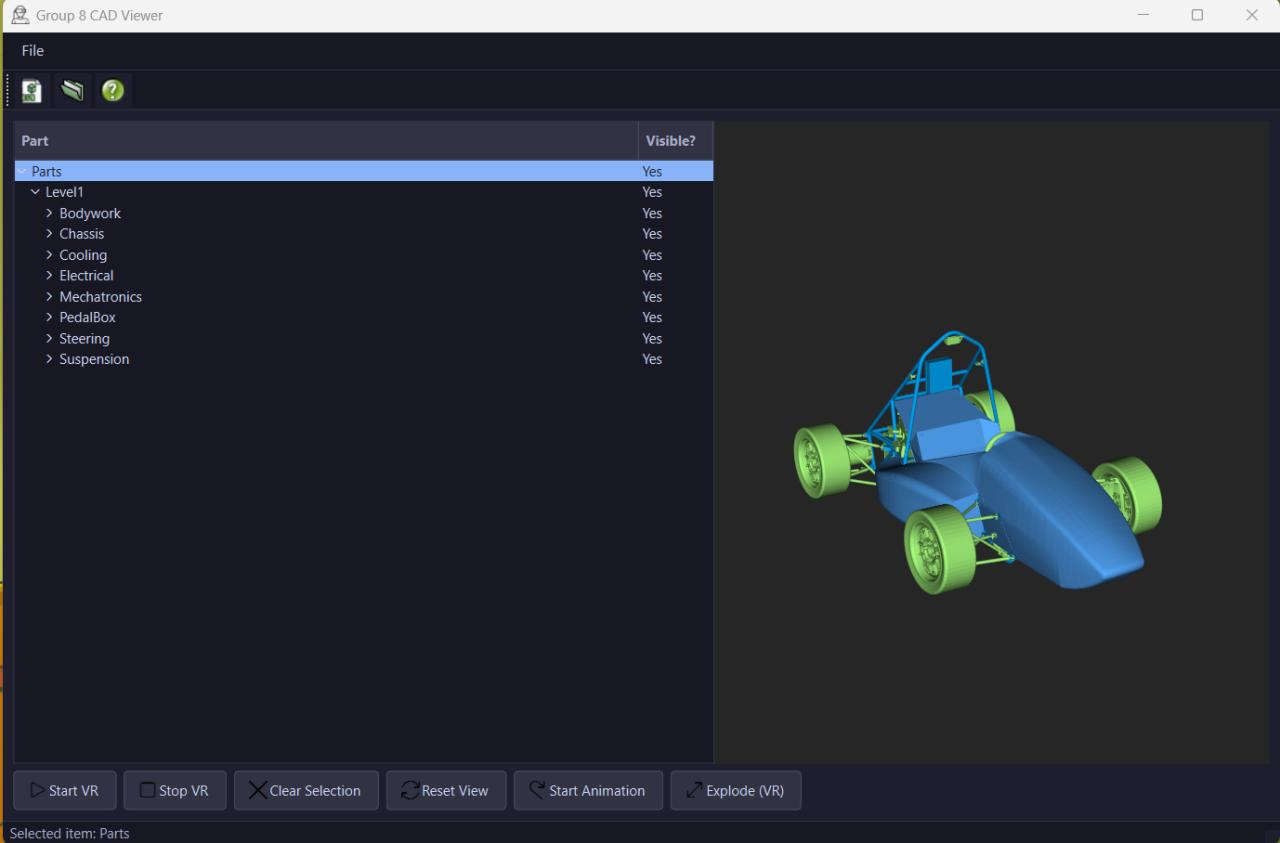
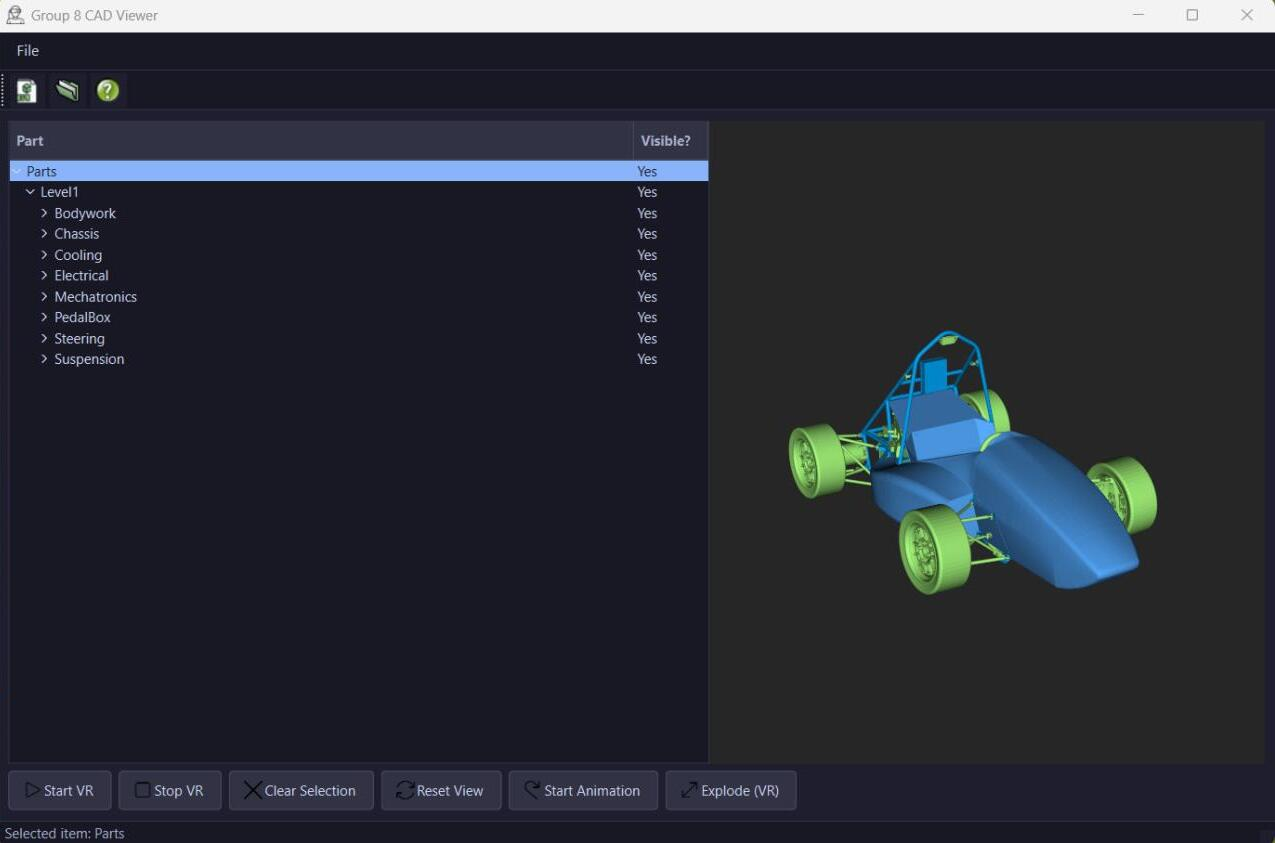
Add embedded line-following robot case study

diff --git a/projects/embedded-line-following-robot.html b/projects/embedded-line-following-robot.html
@@ -1,0 +1,131 @@
+<!DOCTYPE html>
+<html lang="en">
+<head>
+    <meta charset="UTF-8" />
+    <meta name="viewport" content="width=device-width, initial-scale=1.0" />
+
+    <title>Embedded Line-Following Robot | Bruce Jennings</title>
+
+    <meta name="description"
+          content="Case study for an Arduino-based embedded line-following robot using infrared sensors, PID control, Node-RED monitoring, and basic OpenCV experimentation." />
+
+    <link rel="stylesheet" href="../style.css?v=4" />
+</head>
+
+<body>
+    <header class="site-header">
+        <nav class="nav">
+            <a href="../index.html#home" class="logo">Bruce Jennings</a>
+
+            <div class="nav-links">
+                <a href="../index.html#projects">Projects</a>
+                <a href="../index.html#about">About</a>
+                <a href="../index.html#cv">CV</a>
+                <a href="../index.html#contact">Contact</a>
+            </div>
+        </nav>
+    </header>
+
+    <main>
+        <section class="project-hero">
+            <a href="../index.html#projects" class="back-link">← Back to projects</a>
+
+            <p class="eyebrow">Arduino · PID Control · IR Sensors · Node-RED · OpenCV</p>
+
+            <h1>Embedded Line-Following Robot</h1>
+
+            <p class="hero-text">
+                An Arduino-based embedded robotics project developed for autonomous line following. The system combined
+                infrared sensor feedback, PID motor control, hardware integration, and a Node-RED dashboard for real-time
+                monitoring and interaction.
+            </p>
+        </section>
+
+        <section class="section project-showcase">
+            <img src="../assets/images/projects/line-following-robot/node-red-interface.jpg"
+                 alt="Embedded line-following robot with Node-RED dashboard interface"
+                 class="case-study-image large" />
+
+            <div class="image-grid">
+                <img src="../assets/images/projects/line-following-robot/car-image.jpg"
+                     alt="Line-following robot hardware platform"
+                     class="case-study-image" />
+
+                <img src="../assets/images/projects/line-following-robot/pid-system.jpg"
+                     alt="PID control circuit and robot electronics"
+                     class="case-study-image" />
+            </div>
+        </section>
+
+        <section class="section case-study-layout">
+            <article class="case-study-main">
+                <h2>Overview</h2>
+                <p>
+                    This project involved developing an embedded system for autonomous line following using Arduino-based
+                    hardware. The robot used infrared sensors to detect the line, PID control to stabilise movement, and
+                    motor control logic to follow the path more smoothly than a simple on/off steering approach.
+                </p>
+
+                <h2>System Development</h2>
+                <p>
+                    The project was developed in stages. The first stage focused on basic autonomous movement and PID tuning.
+                    The second stage added a Node-RED dashboard for real-time monitoring and interaction. A later extension
+                    explored basic OpenCV techniques for object detection and visual response.
+                </p>
+
+                <h2>Key Features</h2>
+                <ul class="case-study-list">
+                    <li>Infrared sensor-based line detection.</li>
+                    <li>PID motor control for improved path stability.</li>
+                    <li>Arduino-based embedded control logic.</li>
+                    <li>Real-time monitoring and interaction through a Node-RED dashboard.</li>
+                    <li>Hardware integration, testing, and debugging.</li>
+                    <li>Basic OpenCV object detection experimentation.</li>
+                </ul>
+
+                <h2>My Contribution</h2>
+                <p>
+                    I implemented and tuned the PID control behaviour, worked on the Node-RED interface, integrated and tested
+                    hardware components, and contributed to debugging and validation of the complete robot system.
+                </p>
+
+                <h2>What I Learned</h2>
+                <p>
+                    This project strengthened my understanding of embedded control systems, sensor feedback, practical robotics
+                    debugging, PID tuning, hardware/software integration, and the value of real-time interfaces when testing
+                    physical systems.
+                </p>
+            </article>
+
+            <aside class="case-study-sidebar">
+                <div class="sidebar-card">
+                    <h3>Technical Stack</h3>
+                    <div class="tag-list compact">
+                        <span>C / C++</span>
+                        <span>Arduino</span>
+                        <span>PID Control</span>
+                        <span>IR Sensors</span>
+                        <span>PWM</span>
+                        <span>Node-RED</span>
+                        <span>OpenCV</span>
+                    </div>
+                </div>
+
+                <div class="sidebar-card">
+                    <h3>Project Type</h3>
+                    <p>Embedded robotics project</p>
+                </div>
+
+                <div class="sidebar-card">
+                    <h3>Focus Areas</h3>
+                    <p>Autonomous control, embedded systems, sensor feedback, real-time monitoring, robotics debugging.</p>
+                </div>
+            </aside>
+        </section>
+    </main>
+
+    <footer class="site-footer">
+        <p>© 2026 Bruce Jennings. Built with HTML, CSS, and GitHub Pages.</p>
+    </footer>
+</body>
+</html>

diff --git a/index.html b/index.html
@@ -9,7 +9,7 @@
     <meta name="description"
           content="Personal portfolio of Bruce Jennings, an Electronic and Computer Engineering student interested in embedded software, intelligent electronic systems, edge AI, signal processing, FPGA, robotics, and medtech applications." />
 
-    <link rel="stylesheet" href="style.css?v=3" />
+    <link rel="stylesheet" href="style.css?v=4" />
 </head>
 
 <body>
@@ -96,23 +96,37 @@
                 </article>
 
                 <article class="project-card">
-                    <div class="project-meta">Arduino · PID Control · IR Sensors · PWM</div>
-                    <h3>PID Line-Following Robot</h3>
+                    <a href="projects/embedded-line-following-robot.html" class="project-image-link">
+                        <img src="assets/images/projects/line-following-robot/node-red-interface.jpg"
+                             alt="Embedded line-following robot with Node-RED dashboard interface"
+                             class="project-image" />
+                    </a>
+
+                    <div class="project-meta">Arduino · PID Control · IR Sensors · Node-RED · OpenCV</div>
+                    <h3>Embedded Line-Following Robot</h3>
                     <p>
-                        A robotics project using PID control, IR sensor feedback, PWM motor control, and a Node-RED dashboard
-                        for monitoring and interaction.
+                        An autonomous robotics project using infrared sensor input, PID motor control, and Arduino-based embedded hardware.
+                        The system was extended with a Node-RED dashboard for real-time interaction and early OpenCV-based object detection experiments.
                     </p>
-                    <a href="#" class="project-link">Case study coming soon</a>
+                    <a href="projects/embedded-line-following-robot.html" class="project-link">View case study</a>
                 </article>
 
                 <article class="project-card">
-                    <div class="project-meta">Robotics · Sensors · Edge AI · Assistive Technology</div>
-                    <h3>Edge AI Accessibility Robot</h3>
+                    <a href="#" class="project-image-link">
+                        <img src="assets/images/projects/casino-syndicate-thumbnail/casino-syndicate-thumbnail.png"
+                             alt="Casino Syndicate vertical slice prototype showing a rusty slot machine in a greybox demo environment"
+                             class="project-image" />
+                    </a>
+
+                    <div class="project-meta">Unity · C# · Game Systems · First-Person Prototype</div>
+                    <h3>Casino Syndicate - The Warehouse</h3>
                     <p>
-                        Future project exploring local AI inference, sensor-based navigation, 2D accessibility mapping,
-                        and assistive technology for real-world environments.
+                        A solo indie game prototype combining casino management systems with early 2005–2009 Frutiger Aero console-inspired visuals. 
+                        The vertical slice is being built around grid-based object placement, first-person interaction, playable machines, 
+                        and a future director mode for casino floor management.
+
                     </p>
-                    <a href="#" class="project-link">Future Project</a>
+                    <a href="#" class="project-link">Demo vertical slice in progress</a>
                 </article>
             </div>
         </section>

diff --git a/style.css b/style.css
@@ -227,7 +227,7 @@ h3 {
     max-width: 100%;
     height: auto;
     aspect-ratio: 16 / 9;
-    object-fit: contain;
+    object-fit: cover;
     background: #111827;
     transition: transform 0.25s ease;
 }
